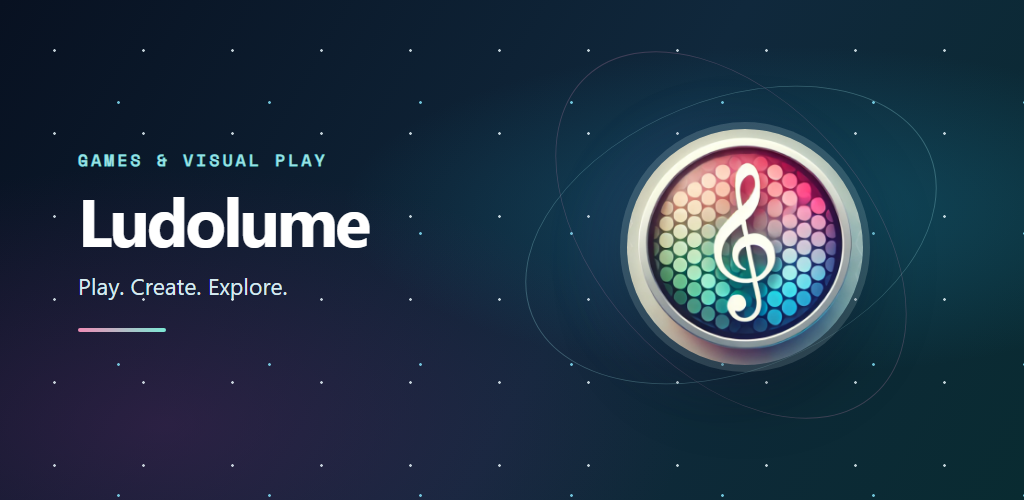
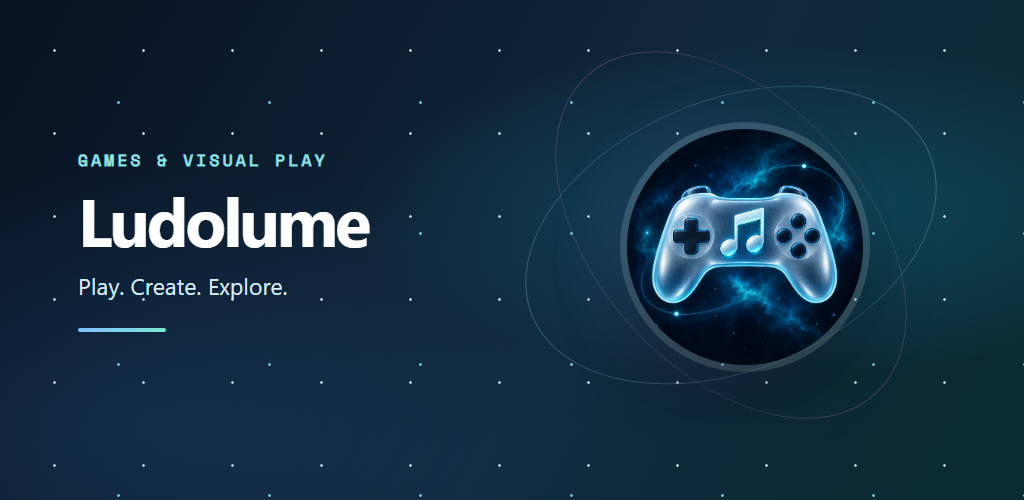
fix: use current Ludolume art for Play listing

Changed region(s): [[0.5938, 0.24, 0.8438, 0.75], [0.0938, 0.63, 0.125, 0.69]]

diff --git a/release-prep/2026-10-31/play-feature-graphic.html b/release-prep/2026-10-31/play-feature-graphic.html
@@ -9,7 +9,7 @@
     html, body { margin: 0; width: 1024px; height: 500px; overflow: hidden; }
     body { position: relative; color: white; background:
       radial-gradient(ellipse at 77% 42%, rgba(22, 108, 135, .48), transparent 40%),
-      radial-gradient(ellipse at 16% 85%, rgba(102, 38, 104, .34), transparent 43%),
+      radial-gradient(ellipse at 16% 85%, rgba(31, 78, 126, .34), transparent 43%),
       linear-gradient(120deg, #081121 0%, #10283c 57%, #092b31 100%); }
     .stars { position: absolute; inset: 0; opacity: .8; background-image:
       radial-gradient(circle, #ecfaff 1px, transparent 1.6px), radial-gradient(circle, #87e8ff 1px, transparent 1.7px);
@@ -26,12 +26,12 @@
     h1 { margin: 17px 0 15px; font: 700 67px/1.05 system-ui, sans-serif; letter-spacing: -.045em; }
     p { margin: 0; color: #d6eaf0; font: 400 23px/1.35 system-ui, sans-serif; }
     .line { width: 88px; height: 4px; margin-top: 27px; border-radius: 4px;
-      background: linear-gradient(90deg, #ef8db6, #7ce9d5); }
+      background: linear-gradient(90deg, #82bdff, #7ce9d5); }
   </style>
 </head>
 <body>
   <div class="stars"></div><div class="orbit"></div><div class="orbit two"></div><div class="glow"></div>
   <div class="copy"><div class="eyebrow">GAMES &amp; VISUAL PLAY</div><h1>Ludolume</h1><p>Play. Create. Explore.</p><div class="line"></div></div>
-  <img class="icon" src="../../frontend/android/app/src/main/ic_launcher-playstore.png" alt="">
+  <img class="icon" src="../../frontend/resources/icon-only.png" alt="">
 </body>
 </html>
